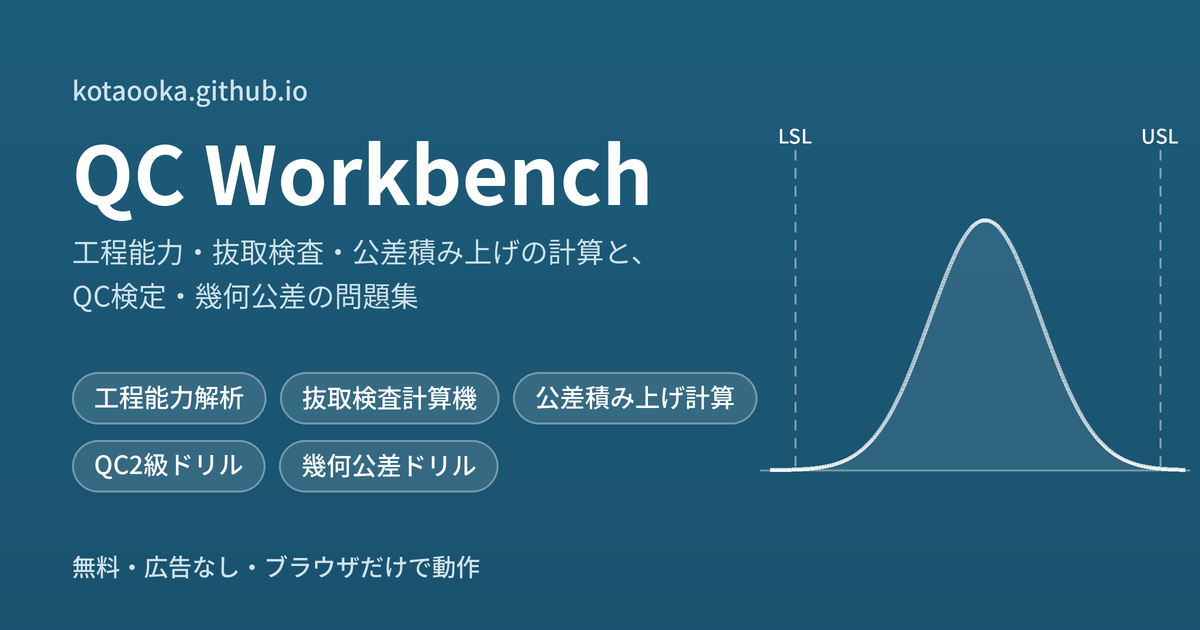
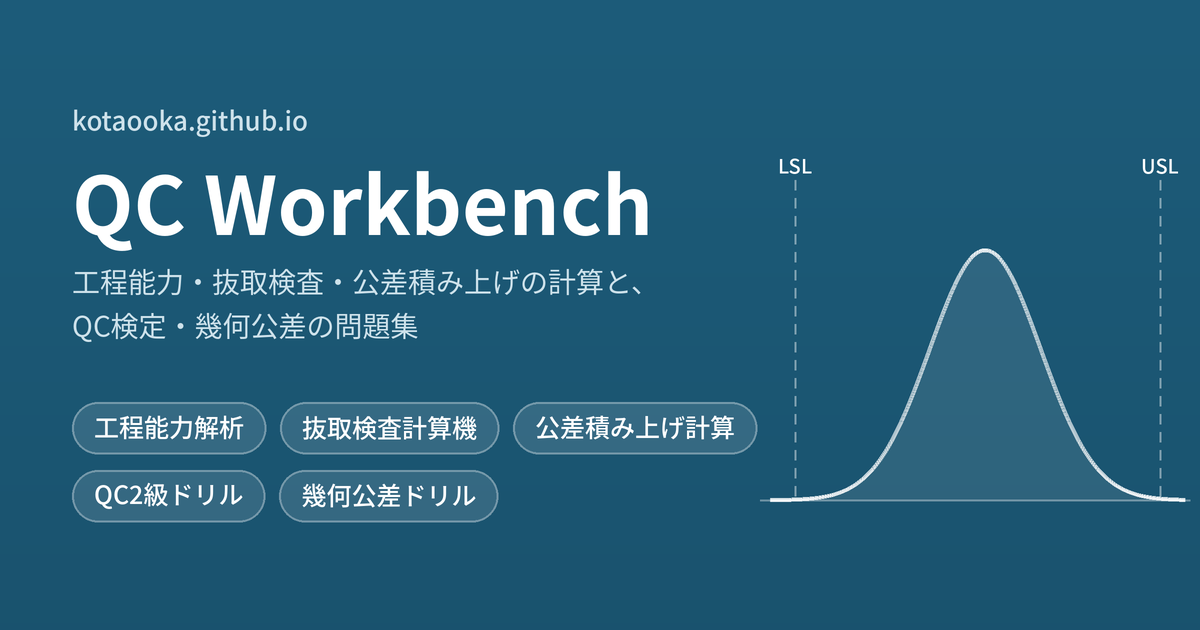
宣伝調の文言を削除し、og画像のレイアウトを調整

diff --git a/index.html b/index.html
@@ -4,7 +4,7 @@
 <meta charset="utf-8">
 <meta name="viewport" content="width=device-width,initial-scale=1,viewport-fit=cover">
 <title>QC Workbench｜品質管理の計算ツールと問題集</title>
-<meta name="description" content="工程能力・抜取検査・公差積み上げの計算ツールと、QC検定2級・幾何公差の問題集。すべて無料・広告なし、ブラウザだけで動きます。">
+<meta name="description" content="工程能力・抜取検査・公差積み上げの計算ツールと、QC検定2級・幾何公差の問題集。">
 <meta name="theme-color" content="#1D5C7A">
 <meta property="og:title" content="QC Workbench｜品質管理の計算ツールと問題集">
 <meta property="og:description" content="工程能力・抜取検査・公差積み上げの計算ツールと、QC検定2級・幾何公差の問題集。">
@@ -105,7 +105,7 @@
 <div class="wrap">
   <header>
     <h1>QC Workbench</h1>
-    <p class="lead">工程能力・抜取検査・公差積み上げの計算と、QC検定・幾何公差の学習。無料・広告なし、ブラウザだけで動きます。</p>
+    <p class="lead">工程能力・抜取検査・公差積み上げの計算と、QC検定・幾何公差の学習。</p>
   </header>
 
   <main id="app"></main>
